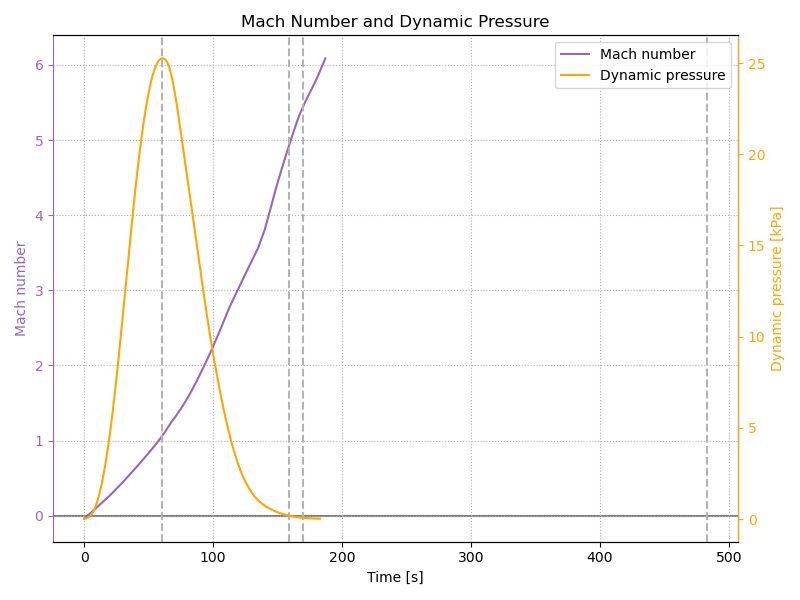
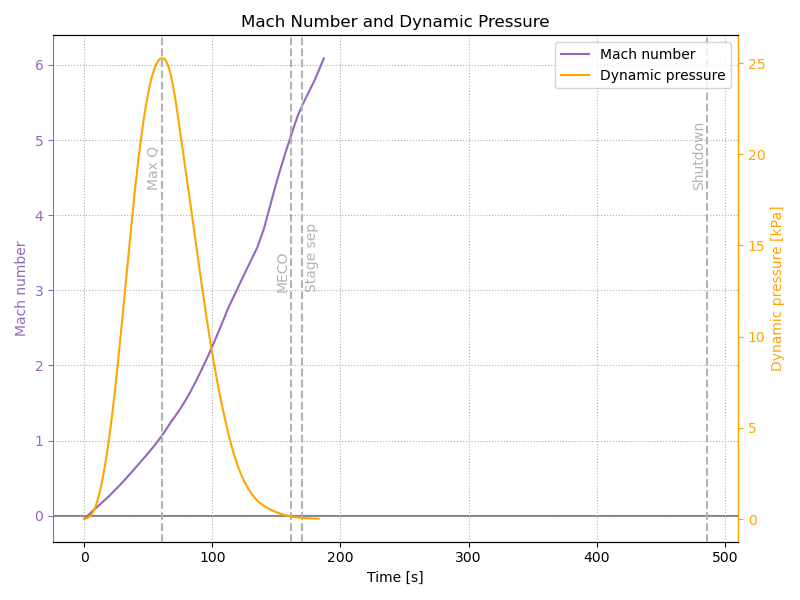
Smoother accel, plots tweaks

diff --git a/analyze_IFT2.py b/analyze_IFT2.py
@@ -15,13 +15,13 @@ from SolarSystem import Earth
 
 save = "--save" in sys.argv
 
-combined_plot = True
+combined_plot = False
 
 events = [
-  ["Max Q", 60.5, 0.15, -15],
-  ["MECO", 120+39, 0.7, -15],
-  ["Stage sep", 120+50, 0.7, 3],
-  ["Shutdown", 8*60+3, 0.6, -15],
+  ["Max Q", 60.5],
+  ["MECO", 120+41],
+  ["Stage sep", 120+50],
+  ["Shutdown", 8*60+6],
 ]
 
 # ==============================================================================
@@ -199,7 +199,9 @@ plt.grid(ls=":")
 
 # Events
 color = "0.5"
-for label, t, y, xoff in events:
+label_pos = {"Max Q": (0.7, -15), "MECO": (0.7, -15), "Stage sep": (0.7, 3), "Shutdown": (0.6, -15)}
+for label, t in events:
+  y, xoff = label_pos[label]
   plt.axvline(t, ls="--", color=color, zorder=-10)
   plt.annotate(label, xy=(t, y), xycoords=("data", "axes fraction"), xytext=(xoff, 0), textcoords="offset pixels", rotation=90, color=color)
 
@@ -257,8 +259,11 @@ plt.ylabel("Acceleration [gees]")
 
 # Events
 color = "0.7"
-for label, t, y, xoff in events:
+label_pos = {"Max Q": (0.7, -15), "MECO": (0.7, -15), "Stage sep": (0.7, 3), "Shutdown": (0.7, -15)}
+for label, t in events:
+  y, xoff = label_pos[label]
   plt.axvline(t, ls="--", color=color, zorder=-10)
+  plt.annotate(label, xy=(t, y), xycoords=("data", "axes fraction"), xytext=(xoff, 0), textcoords="offset pixels", rotation=90, color=color)
 
 if not combined_plot:
   plt.tight_layout()
@@ -280,6 +285,7 @@ else:
 plt.plot(time, speed_numer/1e3, color="0.5", label="Velocity magnitude")
 plt.plot(time, hspeed/1e3, color="C0", label="Horizontal velocity")
 plt.plot(time, vspeed/1e3, color="C1", label="Vertical velocity")
+y1, y2 = plt.ylim()
 plt.legend()
 plt.axhline(0, color="gray", zorder=-10)
 plt.xlabel("Time [s]")
@@ -287,10 +293,17 @@ plt.ylabel("Speed [km/s]")
 plt.title("Velocity components")
 plt.grid(ls=":")
 
+ax2 = plt.twinx()
+plt.ylim(y1*3600, y2*3600)
+plt.ylabel("Speed [km/h]")
+
 # Events
 color = "0.7"
-for label, t, y, xoff in events:
+label_pos = {"Max Q": (0.7, -15), "MECO": (0.7, -15), "Stage sep": (0.7, 3), "Shutdown": (0.7, -15)}
+for label, t in events:
+  y, xoff = label_pos[label]
   plt.axvline(t, ls="--", color=color, zorder=-10)
+  plt.annotate(label, xy=(t, y), xycoords=("data", "axes fraction"), xytext=(xoff, 0), textcoords="offset pixels", rotation=90, color=color)
 
 if not combined_plot:
   plt.tight_layout()
@@ -309,36 +322,51 @@ if combined_plot:
 else:
   plt.figure(figsize=(8,6))
 
-plt.plot(hdist, altitude/1e3, color="k")
+plt.plot(hdist/1e3, altitude/1e3, color="k")
 next_dot = 0; next_text = 60
+texts_pos = {60: (5,-3), 120: (5,-2), 180: (5,-2), 240: (5,-2), 300: (5,-5), 360: (-5,-12), 420: (-12,-12), 480: (-20,-12)}
 for i in range(len(time)):
-  x, y = hdist[i], altitude[i]/1e3
+  x, y = hdist[i]/1e3, altitude[i]/1e3
   if time[i] >= next_dot:
-    plt.scatter([x], [y], color="k", s=5)
-    next_dot += 10
+    s = 20 if time[i] >= next_text else 5
     if time[i] >= next_text:
-      plt.annotate(f"{time[i]:.0f}", xy=(x,y), xytext=(2,-2), textcoords="offset pixels", va="top", fontsize=10)
+      if next_text == 60: text = f"t = {time[i]:.0f} s"
+      else: text = f"{time[i]:.0f}"
+      pos = texts_pos[next_text]
+      plt.annotate(text, xy=(x,y), xytext=pos, textcoords="offset pixels", va="center", fontsize=10)
       next_text += 60
-  # Events
-  color = "0.7"
-  for label, t, _, _ in events:
-    if t == time[i]:
-      xoff = 30; yoff = 0
-      if label == "Max Q":
-        yoff = 20
-      elif label == "Shutdown":
-        xoff = -60
-        yoff = -30
-      plt.annotate(label, xy=(x,y), xytext=(xoff,yoff), textcoords="offset pixels", va="top", fontsize=10, color=color, arrowprops=dict(arrowstyle="->", color=color))
-plt.annotate("Dots every 10 seconds", xy=(0.01, 0.99), ha="left", va="top", fontsize=10, xycoords="axes fraction")
+    plt.scatter([x], [y], color="k", s=s)
+    next_dot += 10
+
+# Events
+color = "0.3"
+for label, t in events:
+  found = False
+  for i in range(len(time)-1):
+    if time[i] <= t < time[i+1]:
+      x, y = hdist[i]/1e3, altitude[i]/1e3
+      found = True
+      break
+  if not found:
+    x, y = hdist[-1]/1e3, altitude[-1]/1e3
+  xoff = 30; yoff = 0
+  if label == "Max Q":
+    yoff = 30
+  elif label == "Shutdown":
+    xoff = -60
+    yoff = -30
+  plt.annotate(label, xy=(x,y), xytext=(xoff,yoff), textcoords="offset pixels", va="top", fontsize=10, color=color, arrowprops=dict(arrowstyle="->", color=color))
+
+plt.annotate("Dots every 10 seconds", xy=(0.01, 0.99), ha="left", va="top", fontsize=10, xycoords="axes fraction", color="0.5")
 plt.axhline(0, color="gray", zorder=-10)
 x1, x2 = plt.xlim()
 plt.ylim(-1, 155)
 plt.grid(ls=":")
-plt.title("Trajectory profile (planar, unequal aspect)")
+plt.title("Trajectory profile")
 plt.xlabel("Downrange distance [km]")
 plt.ylabel("Altitude [km]")
 # plt.gca().set_aspect("equal")
+
 
 if not combined_plot:
   plt.tight_layout()
@@ -382,8 +410,11 @@ plt.legend(handles=[ln1,ln2], loc="upper right")
 
 # Events
 color = "0.7"
-for label, t, y, xoff in events:
+label_pos = {"Max Q": (0.7, -15), "MECO": (0.5, -15), "Stage sep": (0.5, 3), "Shutdown": (0.7, -15)}
+for label, t in events:
+  y, xoff = label_pos[label]
   plt.axvline(t, ls="--", color=color, zorder=-10)
+  plt.annotate(label, xy=(t, y), xycoords=("data", "axes fraction"), xytext=(xoff, 0), textcoords="offset pixels", rotation=90, color=color)
 
 if not combined_plot:
   plt.tight_layout()
@@ -402,12 +433,12 @@ else:
   plt.figure(figsize=(8,6))
 
 # Orbital energy
-color = "C6"
+color = "C5"
 ln1, = plt.plot(time, energy/1e6, color=color, label="Orbital energy")
 plt.axhline(E_surf/1e6, ls="-", color=color)
 plt.annotate("Energy at surface", xy=(0.98, E_surf/1e6), xycoords=("axes fraction", "data"), xytext=(0, 5), textcoords="offset pixels", color=color, ha="right")
 plt.axhline(E_orbit/1e6, ls="-", color=color)
-plt.annotate("Energy for orbit (100 km)", xy=(0.98, E_orbit/1e6), xycoords=("axes fraction", "data"), xytext=(0, 5), textcoords="offset pixels", color=color, ha="right")
+plt.annotate("Energy for 100 km orbit", xy=(0.98, E_orbit/1e6), xycoords=("axes fraction", "data"), xytext=(0, 5), textcoords="offset pixels", color=color, ha="right")
 plt.xlabel("Time [s]")
 plt.ylabel("Specific orbital energy [MJ/kg]")
 plt.title("Orbital Energy and Perigee")
@@ -418,7 +449,7 @@ plt.gca().yaxis.label.set_color(color)
 # plt.legend(handles=[ln1,ln2])
 
 # Perigee
-color = "C5"
+color = "C6"
 ax2 = plt.gca().twinx()
 ln2, = plt.plot(time, perigee, color=color, label="Perigee altitude")
 plt.ylim(-6700, 300)
@@ -431,8 +462,11 @@ plt.legend(handles=[ln1,ln2], loc="upper left")
 
 # Events
 color = "0.7"
-for label, t, y, xoff in events:
+label_pos = {"Max Q": (0.7, -15), "MECO": (0.7, -15), "Stage sep": (0.7, 3), "Shutdown": (0.3, -15)}
+for label, t in events:
+  y, xoff = label_pos[label]
   plt.axvline(t, ls="--", color=color, zorder=-10)
+  plt.annotate(label, xy=(t, y), xycoords=("data", "axes fraction"), xytext=(xoff, 0), textcoords="offset pixels", rotation=90, color=color)
 
 if not combined_plot:
   plt.tight_layout()
@@ -445,48 +479,50 @@ if not combined_plot:
 
 # -----------------------
 
-# Save all computed data to file
-out_fname = "data/IFT2_all_data.csv"
-fout = open(out_fname, "w")
-strings = [
-  "Time [s]",
-  "Raw altitude [km]",
-  "Raw speed [m/s]",
-  "Smoothed altitude [km]",
-  "Smoothed speed [m/s]",
-  "Downrange distance [km]",
-  "Horizontal speed [m/s]",
-  "Vertical speed [m/s]",
-  "Net acceleration [m/s^2]",
-  "Horizontal acceleration [m/s^2]",
-  "Vertical acceleration [m/s^2]",
-  "Mach number",
-  "Dynamic pressure [kPa]",
-  "Specific orbital energy [MJ/kg]",
-  "Perigee altitude [km]",
-]
-fout.write(",".join(strings)+"\n")
-for i in range(len(time)):
+if save:
+
+  # Save all computed data to file
+  out_fname = "data/IFT2_full_data.csv"
+  fout = open(out_fname, "w")
   strings = [
-    f"{time[i]:.0f}",
-    f"{raw_altitude[i]/1e3:.0f}",
-    f"{raw_speed[i]:.0f}",
-    f"{altitude[i]/1e3:.1f}",
-    f"{speed[i]:.1f}",
-    f"{hdist[i]/1e3:.1f}",
-    f"{hspeed[i]:.1f}",
-    f"{vspeed[i]:.1f}",    
-    f"{accel_numer[i]:.1f}",
-    f"{haccel[i]:.1f}",
-    f"{vaccel[i]:.1f}",
-    f"{Mach[i]:.1f}",
-    f"{dynpres[i]/1e3:.1f}",
-    f"{energy[i]/1e6:.1f}",
-    f"{perigee[i]:.1f}",
+    "Time [s]",
+    "Raw altitude [km]",
+    "Raw speed [m/s]",
+    "Smoothed altitude [km]",
+    "Smoothed speed [m/s]",
+    "Downrange distance [km]",
+    "Horizontal speed [m/s]",
+    "Vertical speed [m/s]",
+    "Net acceleration [m/s^2]",
+    "Horizontal acceleration [m/s^2]",
+    "Vertical acceleration [m/s^2]",
+    "Mach number",
+    "Dynamic pressure [kPa]",
+    "Specific orbital energy [MJ/kg]",
+    "Perigee altitude [km]",
   ]
   fout.write(",".join(strings)+"\n")
-fout.close()
-print("Wrote", out_fname)
+  for i in range(len(time)):
+    strings = [
+      f"{time[i]:.0f}",
+      f"{raw_altitude[i]/1e3:.0f}",
+      f"{raw_speed[i]:.0f}",
+      f"{altitude[i]/1e3:.1f}",
+      f"{speed[i]:.1f}",
+      f"{hdist[i]/1e3:.1f}",
+      f"{hspeed[i]:.1f}",
+      f"{vspeed[i]:.1f}",    
+      f"{accel_numer[i]:.1f}",
+      f"{haccel[i]:.1f}",
+      f"{vaccel[i]:.1f}",
+      f"{Mach[i]:.1f}",
+      f"{dynpres[i]/1e3:.1f}",
+      f"{energy[i]/1e6:.1f}",
+      f"{perigee[i]:.1f}",
+    ]
+    fout.write(",".join(strings)+"\n")
+  fout.close()
+  print("Wrote", out_fname)
 
 # -----------------------
 
